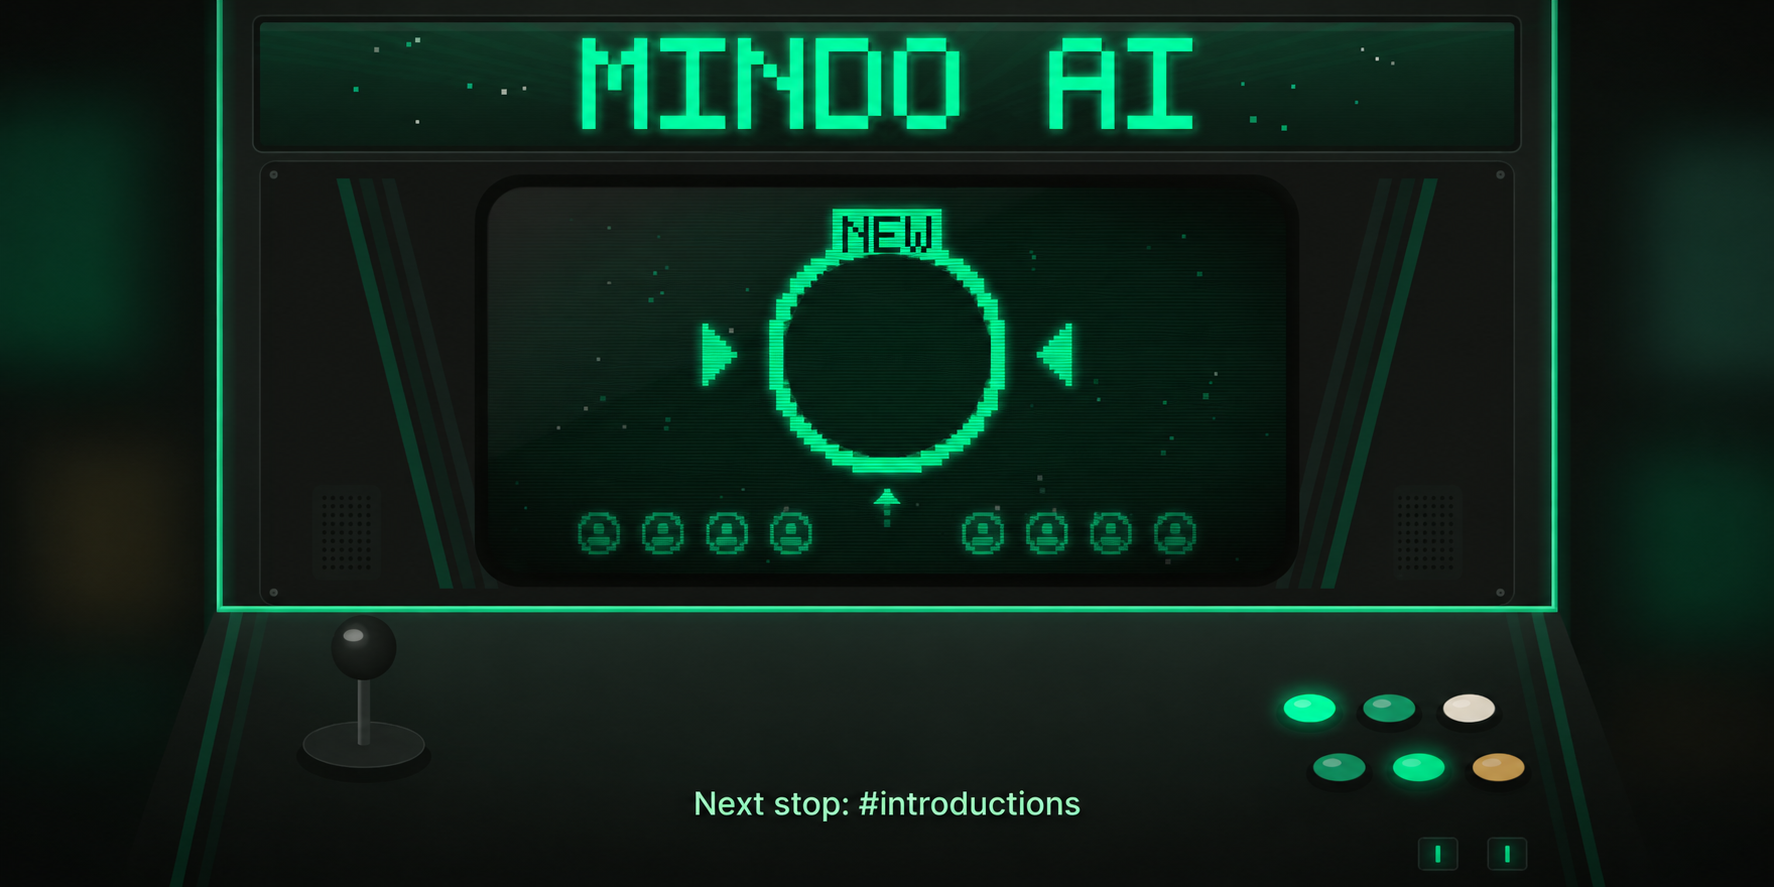
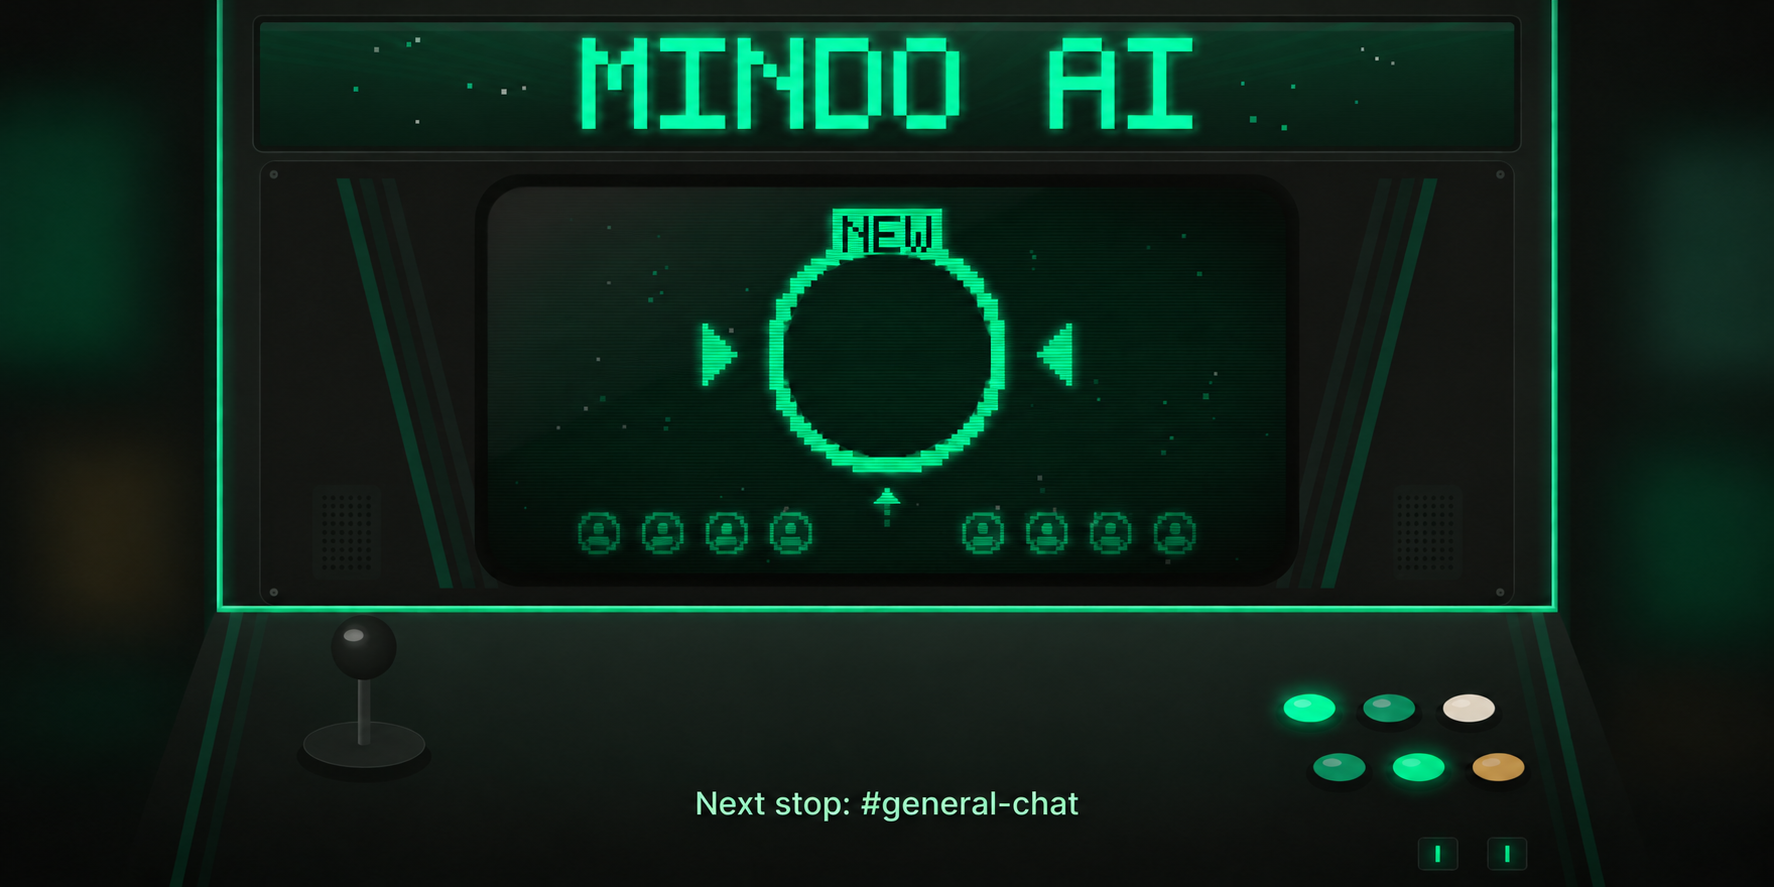
Point welcome cards and next-stop links to general chat

diff --git a/test_member_welcome.py b/test_member_welcome.py
@@ -96,7 +96,7 @@ class MemberWelcomeTests(unittest.IsolatedAsyncioTestCase):
         components = kwargs["view"].to_components()
         self.assertEqual(
             components[0]["content"],
-            "Hey, **new\\_member**, welcome to Mindo AI\nNext stop: #introductions",
+            "Hey, **new\\_member**, welcome to Mindo AI\nNext stop: #general-chat",
         )
         self.assertEqual(
             components[1]["items"][0]["media"]["url"],
@@ -143,7 +143,7 @@ class MemberWelcomeTests(unittest.IsolatedAsyncioTestCase):
         components = self.target.send.call_args.kwargs["view"].to_components()
         self.assertEqual(
             components[0]["content"],
-            "Hey, **Server nickname**, welcome to Mindo AI\nNext stop: #introductions",
+            "Hey, **Server nickname**, welcome to Mindo AI\nNext stop: #general-chat",
         )
         self.assertIn(
             f"/guilds/{self.guild.id}/users/{MEMBER_ID}/avatars/guild_avatar",
@@ -177,7 +177,7 @@ class MemberWelcomeTests(unittest.IsolatedAsyncioTestCase):
                     components = self.target.send.call_args.kwargs["view"].to_components()
                     self.assertEqual(
                         components[0]["content"],
-                        f"Hey, **{expected_name}**, welcome to Mindo AI\nNext stop: #introductions",
+                        f"Hey, **{expected_name}**, welcome to Mindo AI\nNext stop: #general-chat",
                     )
 
     async def test_display_name_cannot_inject_markdown_or_mentions(self):
@@ -192,17 +192,27 @@ class MemberWelcomeTests(unittest.IsolatedAsyncioTestCase):
         self.assertEqual(
             greeting,
             r"Hey, **\*\*Nick\*\* <@"
-            "\u200b123456789012345678> @\u200beveryone @\u200bhere**, welcome to Mindo AI\nNext stop: #introductions",
+            "\u200b123456789012345678> @\u200beveryone @\u200bhere**, welcome to Mindo AI\nNext stop: #general-chat",
         )
         self.assertEqual(kwargs["allowed_mentions"].to_dict(), {"parse": []})
 
-    async def test_introductions_channel_is_linked_when_present(self):
-        self.guild.text_channels = [SimpleNamespace(name="introductions", id=987654321)]
+    async def test_general_chat_channel_is_linked_with_or_without_decorative_prefix(self):
+        for index, name in enumerate(["general-chat", "💬│general-chat", "💬 | general-chat"]):
+            with self.subTest(name=name):
+                self.guild.text_channels = [
+                    SimpleNamespace(name="introductions", id=111),
+                    SimpleNamespace(name="not-general-chat", id=222),
+                    SimpleNamespace(name=name, id=987654321),
+                ]
 
-        self.assertTrue(await self.relay.handle_message(self.message()))
+                self.assertTrue(
+                    await self.relay.handle_message(
+                        self.message(id=1422222222222222223 + index)
+                    )
+                )
 
-        components = self.target.send.call_args.kwargs["view"].to_components()
-        self.assertIn("Next stop: <#987654321>", components[0]["content"])
+                components = self.target.send.call_args.kwargs["view"].to_components()
+                self.assertIn("Next stop: <#987654321>", components[0]["content"])
 
     async def test_avatar_download_failure_still_sends_a_personalized_card(self):
         attachment_bytes = []

diff --git a/member_welcome.py b/member_welcome.py
@@ -2,6 +2,7 @@
 
 import asyncio
 import logging
+import re
 from collections import OrderedDict
 from contextlib import closing
 from io import BytesIO
@@ -22,7 +23,7 @@ AVATAR_DOWNLOAD_TIMEOUT = 10
 def build_welcome_layout(
     member: discord.Member | discord.User,
     *,
-    introductions_channel_id: int | None = None,
+    general_chat_channel_id: int | None = None,
 ) -> discord.ui.LayoutView:
     """Show the display name without relying on Discord's mention resolution."""
     name = discord.utils.escape_mentions(
@@ -30,9 +31,9 @@ def build_welcome_layout(
     )
     view = discord.ui.LayoutView(timeout=None)
     next_stop = (
-        f"<#{introductions_channel_id}>"
-        if introductions_channel_id is not None
-        else "#introductions"
+        f"<#{general_chat_channel_id}>"
+        if general_chat_channel_id is not None
+        else "#general-chat"
     )
     view.add_item(
         discord.ui.TextDisplay(
@@ -114,8 +115,10 @@ class MemberWelcomeRelay:
                     avatar_bytes,
                     template_path=self.image_path,
                 )
-                introductions = discord.utils.get(
-                    message.guild.text_channels, name="introductions"
+                general_chat = discord.utils.find(
+                    lambda channel: re.fullmatch(r"[\W_]*general-chat", channel.name)
+                    is not None,
+                    message.guild.text_channels,
                 )
                 with BytesIO(card_bytes) as card_buffer, closing(
                     discord.File(card_buffer, filename=WELCOME_IMAGE_NAME)
@@ -123,8 +126,8 @@ class MemberWelcomeRelay:
                     await target.send(
                         view=build_welcome_layout(
                             message.author,
-                            introductions_channel_id=(
-                                introductions.id if introductions is not None else None
+                            general_chat_channel_id=(
+                                general_chat.id if general_chat is not None else None
                             ),
                         ),
                         file=banner,

diff --git a/welcome_card.py b/welcome_card.py
@@ -114,7 +114,7 @@ def render_welcome_card(
 ) -> bytes:
     """Return a PNG with the member's circular avatar and fitted display name.
 
-    The bundled artwork provides the cabinet, neon ring and introductions line.
+    The bundled artwork provides the cabinet, neon ring and general-chat line.
     Missing or unreadable avatar data uses initials; template/font errors remain
     visible to the caller so it can log and retry a failed welcome.
     """

diff --git a/README.md b/README.md
@@ -143,8 +143,9 @@ When Discord posts a native join notification (`MessageType.new_member`) in
   avatar inside the neon ring and `Welcome, display name` on the cabinet. Server
   avatars and Discord default avatars are supported, and long names fit the text
   area automatically. If the avatar cannot be downloaded, the card uses initials.
-- A `Next stop: #introductions` line that links to that server channel when it
-  exists. The same wording appears in the card artwork.
+- A `Next stop: #general-chat` line that links to that server channel when it
+  exists, including names with a decorative emoji or separator prefix such as
+  `💬│general-chat`. The same wording appears in the card artwork.
 
 The arcade background is bundled as `assets/mindo-welcome-arcade.png`; its image
 editing prompt is saved alongside it. The renderer uses the bundled Noto Sans font
